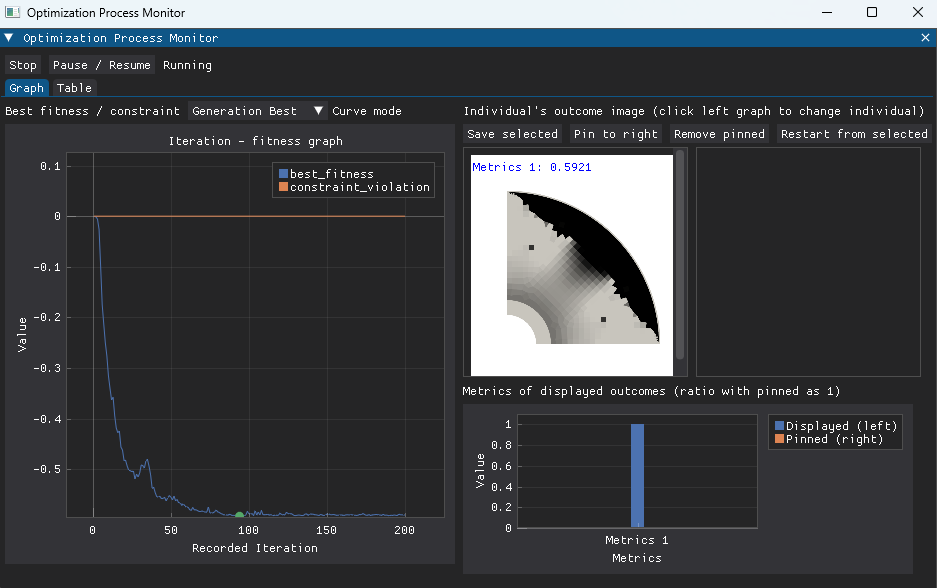
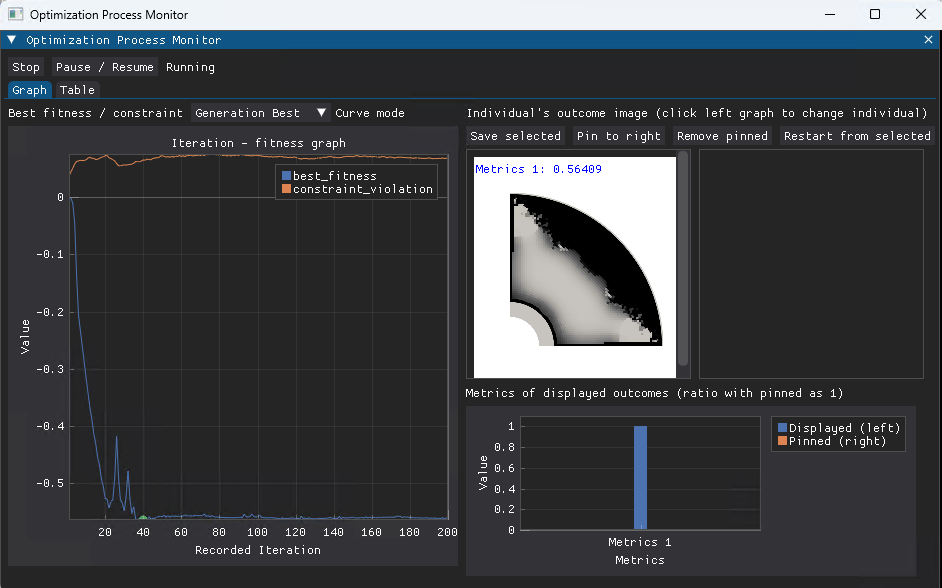
updated

diff --git a/docs/showcase/Dmodel/gradient_levelset.md b/docs/showcase/Dmodel/gradient_levelset.md
@@ -24,7 +24,7 @@ levelset_reinit_weight: 0.2
 Implicit Domain Meshingを有効化するには[`Dmodel`プロジェクトの例](./basic.md)と同様に`use_implicit_domain_meshing`を`True`に変更します。
 
 ## optimization.yaml（`Dmodel_SynRM_gradient_ls`プロジェクト）
-`optimization.yaml`では，レベルセット関数`level_set_function`に`pyemsol_density`を指定します。これにより，目的関数`W1`（トルク）に関する勾配計算がEMSOptimizer内部で行われます。  
+`optimization.yaml`では，レベルセット関数`level_set_function`に`pyemsol_density`を指定します。これにより，目的関数`W1`（トルク）に関する勾配計算がEMSOptimizer内部で行われます。また，設計領域を回転子領域よりやや小さめに設定し，外周にリブが残るようにします。  
 計算した勾配は`optimizer`の`gradient_update`の中で設計変数（ここでは，設計領域内の各要素におけるレベルセット関数値）の更新に利用されます。  
 また，今回は初期形状における符号付距離関数値を設計変数の初期値に採用するため，`init_value_filepath`に初期値csvファイルへのパスを格納します。符号付距離関数値はmmオーダーのため，`move_limit`は`0.0001`とします。また，境界近傍の変化のみ許容するため，`pyemsol_density` > `proj_half_width`は`0.0005`としています。これにより，最適化の各時点における材料境界（＝零等位面）から+-0.5mmの範囲内のみが変化します。  
 :::info
@@ -48,6 +48,7 @@ level_set_function:
     proj_half_width: 0.0005
     objective_type: W1
     torque_scale: 4.0
+    design_region: [[0.0085, 0.0273], [2.0, 45.0]]
 ```
 
 以下は，初期形状の符号付距離関数値に`heaviside5`を適用して得られた材料密度値を可視化した図です（赤：磁性体コア，青：空気）。密度値が中間になっている材料境界近辺で変化が発生し得ます。  
@@ -81,7 +82,7 @@ other_metrics:
 下図は50イテレーションの形状の進化過程です（各イテレーションの最良形状をアニメーション化）。グレー部分は物性値が中間的な値を取る部分（グレースケール），黒は磁性体コアであり，回転子表面が徐々に変化する様子が分かります。
 ![Dmodel勾配LS最適化履歴](/img/ls_best_individuals.gif)
 
-50イテレーション最適化完了後のGUIを以下に示します。23イテレーション目に最良値を記録しました。
-初期形状と比較すると，平均トルクが0.5583Nm → 0.6808Nmと向上していることが分かります。  
+50イテレーション最適化完了後のGUIを以下に示します。22イテレーション目に最良値を記録しました。  
+初期形状（図中右側）と比較すると，平均トルクが0.5583Nm → 0.6808Nmと向上していることが分かります。  
 
 ![Dmodel勾配LS最適化履歴](/img/ls_GUI.png)

diff --git a/docs/showcase/Dmodel/gradient_density.md b/docs/showcase/Dmodel/gradient_density.md
@@ -10,7 +10,7 @@ sidebar_position: 6
 `Dmodel_SynRM_gradient`では[多材料最適化例](./multi_material.md)と同様に，ベースメッシュとしてロータ部が永久磁石を含まず材料番号`20`（磁性体コア）のみからなるメッシュを使用し，ロータ部全域について空気／磁性体コア分布を最適化します。
 
 ## optimization.yaml（`Dmodel_SynRM_gradient`プロジェクト）
-`optimization.yaml`では，レベルセット関数`level_set_function`に`pyemsol_density`を指定します。これにより，目的関数`W1`（トルク）に関する勾配計算がEMSOptimizer内部で行われます。  
+`optimization.yaml`では，レベルセット関数`level_set_function`に`pyemsol_density`を指定します。これにより，目的関数`W1`（トルク）に関する勾配計算がEMSOptimizer内部で行われます。また，設計領域を回転子領域よりやや小さめに設定し，外周にリブが残るようにします。  
 計算した勾配は`optimizer`の`gradient_update`の中で設計変数（ここでは，設計領域内の各要素の物性値を表現する[-1,1]の値）の更新に利用されます。`scaling_mode: sign`と設定することで，勾配方向に大きく降下する最適化を行います。  
 さらに，ここでは体積制約（`constraint_mode: volume_penalty`）を考慮し，磁性体コア面積が全体の50%以下となるよう制約を加えます。  
 ```yaml
@@ -26,6 +26,7 @@ level_set_function:
     proj_method: heaviside5
     objective_type: W1
     torque_scale: 4.0
+    design_region: [[0.0085, 0.0273], [2.0, 45.0]]
 ```
 
 ## optimization_problem.yaml（`Dmodel_SynRM_gradient`プロジェクト）
@@ -56,6 +57,6 @@ other_metrics:
 ![Dmodel勾配最適化履歴](/img/Dmodel_SynRM_gradient_best_individuals.gif)
 
 200イテレーション最適化完了後のGUIを以下に示します。  
-94イテレーション目に最良値を記録し，以降はほぼ横ばいとなっており，十分に収束したと判断できます。  
+40イテレーション目に最良値を記録し，以降はほぼ横ばいとなっており，十分に収束したと判断できます。  
 
 ![Dmodel勾配最適化履歴](/img/Dmodel_SynRM_gradient_check.png)

diff --git a/docs/showcase/3D_problems/magshield_3d.md b/docs/showcase/3D_problems/magshield_3d.md
@@ -159,10 +159,10 @@ objectives:
       physical_tag: 3
     normalization_const: 1.0e-14
     coefficient: 0.5
-  - function_name: material_area
+  - function_name: material_volume
     kwargs:
       physical_tag: 2
-    normalization_const: 0.5
+    normalization_const: 0.002744
     coefficient: 0.5
 
 ineq_constraints: []
@@ -173,15 +173,16 @@ other_metrics:
   - function_name: magnetic_energy
     kwargs:
       physical_tag: 3
-  - function_name: material_area
+  - function_name: material_volume
     kwargs:
       physical_tag: 2
 ```
-最適化問題は`magnetic_energy`（保護対象領域`3`の磁気エネルギー）の最小化，および`material_area`（磁性体材料の使用量）の最小化です。
+最適化問題は`magnetic_energy`（保護対象領域`3`の磁気エネルギー）の最小化，および`material_volume`（磁性体材料の使用量）の最小化です。
 
 ## 最適化の実施例
-最適化の経過を以下に示します。おおむね2層の磁性体構造が得られました。
+最適化の経過を以下に示します。おおむね2層の磁性体構造が得られました。  
+磁性体は軸対称ではなく三次元的な構造を有しており，磁性体材料の使用量を最小化する方向に最適化が進んでいることが分かります。
 ![磁気シールド最適化経過](/img/magshield3d_best_individuals.gif)
 
-最適構造における磁束密度分布を以下に示します（pyemsiによって可視化）。磁束のほとんどは外側の層を通過しており，わずかに内側に侵入した分も内側の層に逃がされている様子が確認できます。
+最適構造における磁束密度分布を以下に示します（pyemsiによって可視化）。磁束のほとんどは外側の層を通過しており，対象領域が保護されている様子が分かります。  
 ![磁気シールド磁束密度分布](/img/magshield3d_countor.png)
